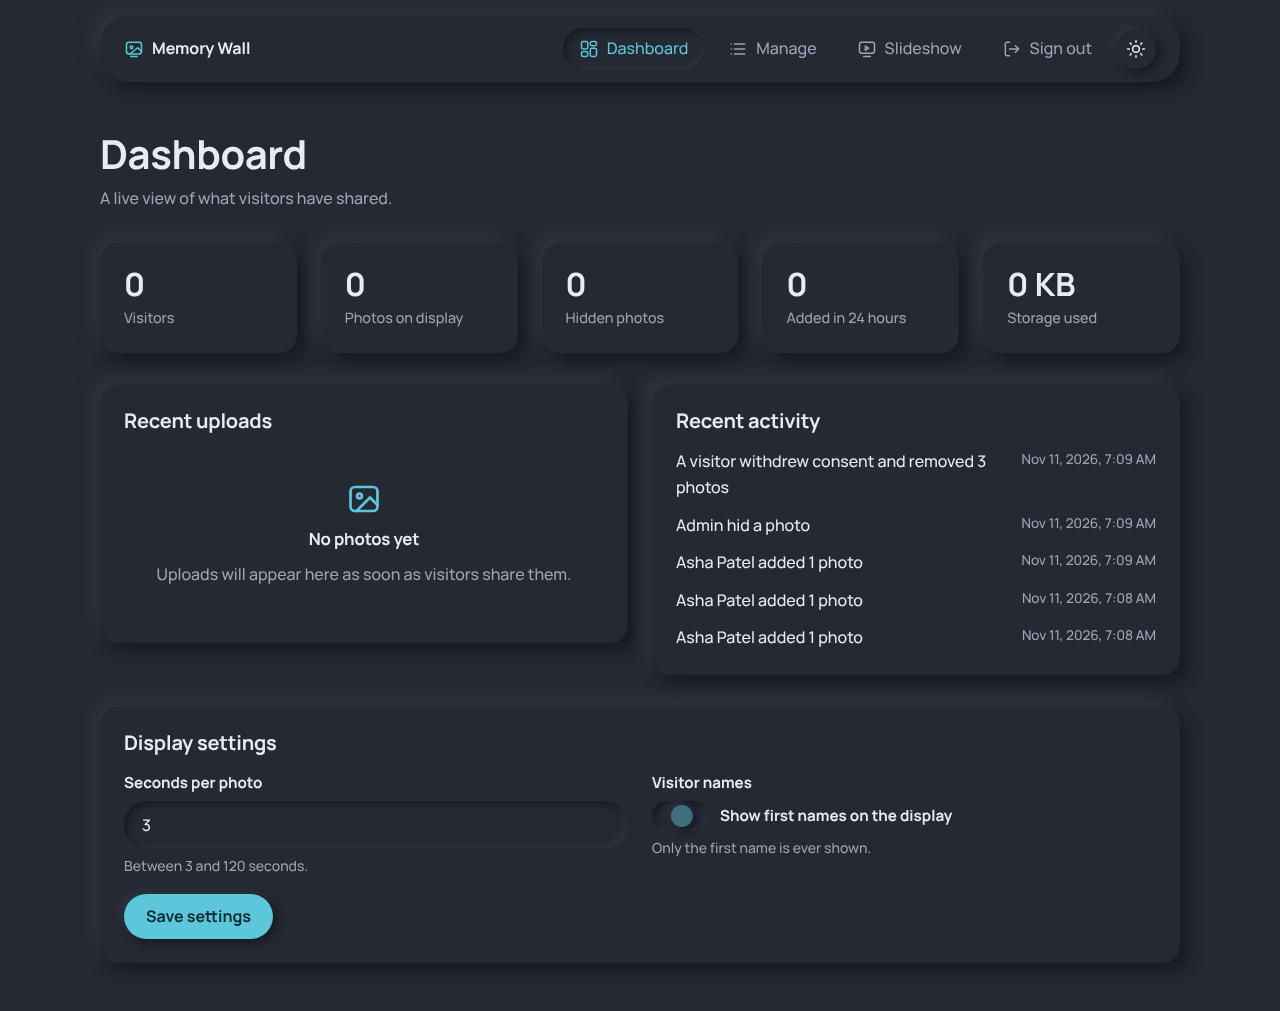
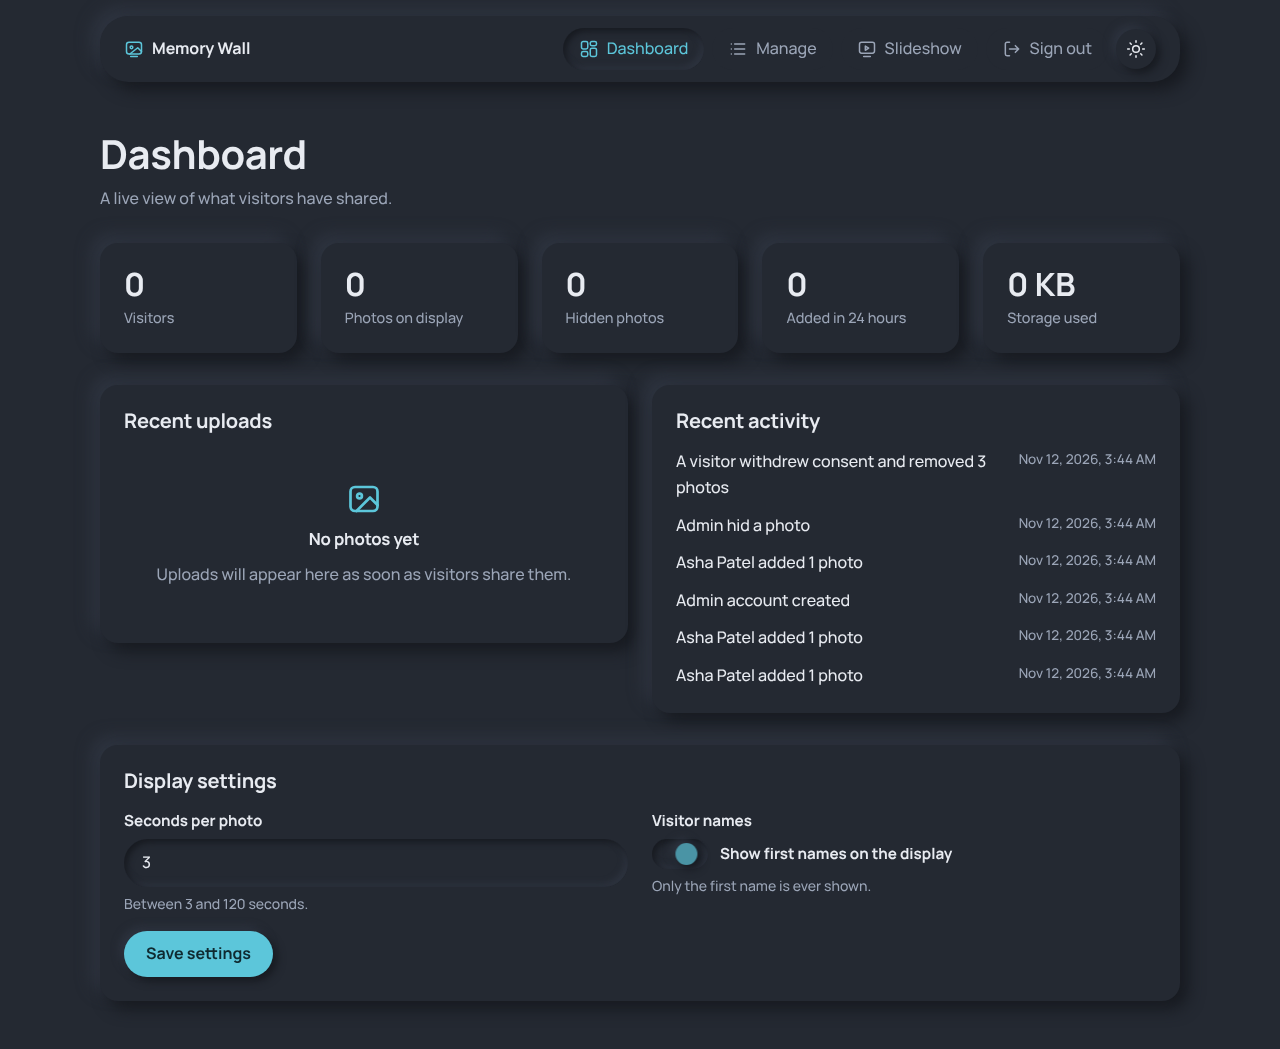
feat: localhost-only setup check page; test database helper; browser e2e test ported to PHP app

diff --git a/tests/e2e/e2e.js b/tests/e2e/e2e.js
@@ -1,31 +1,25 @@
-// Browser end-to-end test (optional): drives real Chromium through the whole app.
-// Setup:  npm i --no-save playwright && npx playwright install chromium
-// Run:    node tests/e2e.js          (screenshots are written to docs/screenshots)
+// Browser end-to-end test (OPTIONAL, development only): drives real Chromium through the PHP application.
+// The application itself does not need Node.js - only this test tool does.
+//   cd tests/e2e && npm install && npx playwright install chromium
+//   (Apache + MySQL running, TEST database configured)   node e2e.js
+// Environment: BASE_URL (default http://localhost/visitor-slideshow/public/); MW_DB_NAME must end with _test.
 const { chromium } = require(process.env.PLAYWRIGHT_PATH || 'playwright');
-const fs = require('node:fs'), os = require('node:os'), path = require('node:path');
-const sharp = require('sharp');
-const { createApp } = require('../server/app');
+const fs = require('node:fs'), path = require('node:path');
+const { execFileSync } = require('node:child_process');
 
 const results = [];
 const check = (name, ok, extra = '') => { results.push({ name, ok }); console.log(`${ok ? 'PASS' : 'FAIL'}  ${name}${ok ? '' : '  ' + extra}`); };
-const shots = path.join(__dirname, '..', 'docs', 'screenshots'); fs.mkdirSync(shots, { recursive: true });
+const shots = path.join(__dirname, '..', '..', 'docs', 'screenshots'); fs.mkdirSync(shots, { recursive: true });
 const sleep = (ms) => new Promise((r) => setTimeout(r, ms));
+const base = (process.env.BASE_URL || 'http://localhost/visitor-slideshow/public/').replace(/\/?$/, '/');
+const ADMIN_PASSWORD = 'e2e-password-123';
+const fixtures = path.join(__dirname, '..', 'fixtures');
+const files = [0, 1, 2].map((i) => path.join(fixtures, `pic${i}.jpg`));
+const fake = path.join(fixtures, 'notes.jpg');
 
 (async () => {
-  const dir = fs.mkdtempSync(path.join(os.tmpdir(), 'e2e-'));
-  const app = createApp({ dataDir: dir, adminPassword: 'e2e-password', sessionSecret: 'y'.repeat(64), limits: { upload: 1000, lookup: 1000, login: 1000 } });
-  const server = await new Promise((r) => { const s = app.listen(0, '127.0.0.1', () => r(s)); });
-  const base = `http://127.0.0.1:${server.address().port}`;
-
-  // test images
-  const files = [];
-  for (let i = 0; i < 3; i++) {
-    const f = path.join(dir, `pic${i}.jpg`);
-    await sharp({ create: { width: 1600, height: 900, channels: 3, background: ['#2a6f97', '#bc4749', '#6a994e'][i] } })
-      .composite([{ input: Buffer.from(`<svg width="1600" height="900"><text x="80" y="500" font-size="300" fill="#fff">Photo ${i + 1}</text></svg>`) }]).jpeg().toFile(f);
-    files.push(f);
-  }
-  const fake = path.join(dir, 'notes.jpg'); fs.writeFileSync(fake, 'this is not really an image');
+  // start from an empty TEST database and empty uploads folder
+  execFileSync('php', [path.join(__dirname, '..', 'reset.php')], { stdio: 'inherit', env: process.env });
 
   const browser = await chromium.launch();
   const problems = [];
@@ -41,13 +35,14 @@ const sleep = (ms) => new Promise((r) => setTimeout(r, ms));
 
   try {
     // ---- 1. empty slideshow ----
-    await tv.goto(base + '/slideshow');
+    await tv.goto(base + 'slideshow.php');
     await tv.waitForSelector('#empty:not([hidden])');
     check('Slideshow shows a friendly empty state', (await tv.locator('#empty').isVisible()) && (await tv.textContent('#empty')).includes('Waiting for the first photo'));
     await tv.screenshot({ path: path.join(shots, 'slideshow-empty.png') });
 
     // ---- 2. upload page + validation messages ----
-    await page.goto(base + '/');
+    await page.goto(base);
+    check('Root address opens the visitor page', page.url().endsWith('/public/') && (await page.textContent('h1')).includes('Share your photos'), page.url());
     await page.screenshot({ path: path.join(shots, 'upload-light.png') });
     check('Submit disabled with no photos', await page.locator('#submit').isDisabled());
     await page.setInputFiles('#file', [files[0], files[1], fake]);
@@ -63,54 +58,69 @@ const sleep = (ms) => new Promise((r) => setTimeout(r, ms));
     // ---- 3. real upload (2 valid + 1 fake) ----
     await page.check('#consent');
     await page.click('#submit');
-    await page.waitForURL('**/status');
+    await page.waitForURL('**/status.php');
     const code = (await page.textContent('#code')).trim();
     check('Visitor code is issued after first upload', /^[A-Z2-9]{5}-[A-Z2-9]{5}$/.test(code), code);
     check('Success page reports 2 photos', (await page.textContent('#h')).includes('2 photos'));
     check('Invalid file is reported on the status page', (await page.textContent('#plist')).includes('notes.jpg'));
     await page.screenshot({ path: path.join(shots, 'status.png') });
 
-    // ---- 4. slideshow updated live, without reload ----
-    await tv.waitForSelector('.layer.on', { timeout: 8000 });
+    // ---- 4. slideshow updated live (polling), without reload ----
+    await tv.waitForSelector('.layer.on', { timeout: 10000 });
     check('New photo appears on the open slideshow without a refresh (empty message gone, image visible)', (await tv.locator('#empty').isVisible()) === false && (await tv.locator('.layer.on').isVisible()));
     await tv.screenshot({ path: path.join(shots, 'slideshow.png') });
 
-    // ---- 5. progression + live add while playing ----
+    // ---- 5. first-run admin setup, then settings + progression ----
     const adminPage = await ctx.newPage(); watch(adminPage, 'admin');
-    await adminPage.goto(base + '/admin');
-    check('Admin page redirects to sign-in when logged out', adminPage.url().endsWith('/admin/login'));
-    await adminPage.fill('#pw', 'wrong'); await adminPage.click('button[type=submit]');
+    await adminPage.goto(base + 'admin/index.php');
+    check('First visit to /admin goes to the password setup page', adminPage.url().endsWith('admin/setup.php'), adminPage.url());
+    await adminPage.screenshot({ path: path.join(shots, 'admin-setup.png') });
+    await adminPage.fill('#pw', ADMIN_PASSWORD); await adminPage.fill('#pw2', 'something-else-1'); await adminPage.click('button[type=submit]');
     await adminPage.waitForSelector('#error:not([hidden])');
-    check('Wrong admin password shows an error', true);
-    await adminPage.fill('#pw', 'e2e-password'); await adminPage.click('button[type=submit]');
-    await adminPage.waitForURL('**/admin');
+    check('Setup rejects mismatching passwords', (await adminPage.textContent('#error')).includes('match'));
+    await adminPage.fill('#pw2', ADMIN_PASSWORD); await adminPage.click('button[type=submit]');
+    await adminPage.waitForURL('**/admin/index.php');
+    check('Setup creates the admin and opens the dashboard', await adminPage.locator('h1').first().textContent() === 'Dashboard');
     await adminPage.fill('#duration', '3'); await adminPage.check('#shownames'); await adminPage.click('#settings button[type=submit]');
     await adminPage.waitForSelector('.toast--success');
     const srcs = new Set();
-    for (let i = 0; i < 9; i++) { srcs.add(await tv.evaluate(() => document.querySelector('.layer.on')?.getAttribute('src'))); await sleep(1000); }
+    for (let i = 0; i < 10; i++) { srcs.add(await tv.evaluate(() => document.querySelector('.layer.on')?.getAttribute('src'))); await sleep(1000); }
     check('Slideshow advances automatically to the next photo (3 s setting)', srcs.size >= 2, [...srcs].join());
     check('Visitor first name is shown only when the admin enables it', (await tv.textContent('#caption')).trim() === 'Shared by Asha');
+
+    // ---- 5b. sign-in for a fresh browser (no cookies) ----
+    const ctxLogin = await browser.newContext(); const lp = await ctxLogin.newPage(); watch(lp, 'login');
+    await lp.goto(base + 'admin/index.php');
+    check('Admin page redirects to sign-in when logged out', lp.url().endsWith('admin/login.php'), lp.url());
+    await lp.fill('#pw', 'wrong-password'); await lp.click('button[type=submit]');
+    await lp.waitForSelector('#error:not([hidden])');
+    check('Wrong admin password shows an error', (await lp.textContent('#error')).includes('Incorrect'));
+    await lp.fill('#pw', ADMIN_PASSWORD); await lp.click('button[type=submit]');
+    await lp.waitForURL('**/admin/index.php');
+    check('Correct admin password opens the dashboard', true);
+    await lp.click('#signout'); await lp.waitForURL('**/admin/login.php');
+    check('Sign out returns to the sign-in page', true);
+    await ctxLogin.close();
 
     // ---- 6. returning visitor in a fresh browser context (no saved data) ----
     const ctx2 = await browser.newContext({ viewport: { width: 1280, height: 800 } });
     const p2 = await ctx2.newPage(); watch(p2, 'returning');
-    await p2.goto(base + '/my-photos');
+    await p2.goto(base + 'my-photos.php');
     await p2.fill('#code', code.toLowerCase());
     await p2.click('button[type=submit]');
     await p2.waitForSelector('.photo-grid');
     check('Returning visitor sees their previous photos', (await p2.locator('.photo-card').count()) === 2);
     await p2.screenshot({ path: path.join(shots, 'my-photos.png') });
-    await p2.goto(base + '/');
+    await p2.goto(base);
     await p2.click('#mode-return'); await p2.fill('#code', code);
     await p2.setInputFiles('#file', [files[2]]); await p2.check('#consent'); await p2.click('#submit');
-    await p2.waitForURL('**/status');
+    await p2.waitForURL('**/status.php');
     check('Returning visitor can add another photo with the same code', (await p2.textContent('#h')).includes('on the wall'));
     check('Returning visitor does not get a new code', await p2.locator('#codecard').isHidden());
-    await p2.goto(base + '/my-photos');
+    await p2.goto(base + 'my-photos.php');
     await p2.waitForSelector('.photo-grid');
     check('Previous and new photos are together (3)', (await p2.locator('.photo-card').count()) === 3);
-    // saved code recognised on same device
-    await p2.goto(base + '/');
+    await p2.goto(base);
     await p2.waitForFunction(() => document.getElementById('welcome').textContent.includes('Welcome back'));
     check('Same device recognises the returning visitor automatically', true);
 
@@ -120,7 +130,7 @@ const sleep = (ms) => new Promise((r) => setTimeout(r, ms));
     const nums = await adminPage.locator('.stat .num').allTextContents();
     check('Dashboard shows real counts (1 visitor, 3 photos)', nums[0] === '1' && nums[1] === '3', nums.join());
     await adminPage.screenshot({ path: path.join(shots, 'admin-dashboard.png'), fullPage: true });
-    await adminPage.goto(base + '/admin/manage');
+    await adminPage.goto(base + 'admin/manage.php');
     await adminPage.waitForSelector('.photo-card');
     await adminPage.fill('#q', 'nobody');
     await adminPage.waitForSelector('.empty');
@@ -141,48 +151,49 @@ const sleep = (ms) => new Promise((r) => setTimeout(r, ms));
     check('Visitors table lists the visitor', (await adminPage.textContent('tbody')).includes('Asha Patel'));
 
     // ---- 8. withdraw consent -> slideshow empties live ----
-    await p2.goto(base + '/my-photos');
+    await p2.goto(base + 'my-photos.php');
     await p2.waitForSelector('#withdraw');
     await p2.click('#withdraw'); await p2.waitForSelector('dialog[open]');
     await p2.getByRole('button', { name: 'Delete everything' }).click();
-    await tv.waitForSelector('#empty:not([hidden])', { timeout: 8000 });
-    check('Withdrawing consent removes photos from the open slideshow', true);
-    check('Withdrawn visitor code no longer works', await (async () => { const r = await fetch(base + '/api/visitor/lookup', { method: 'POST', headers: { 'Content-Type': 'application/json' }, body: JSON.stringify({ code }) }); return r.status === 404; })());
+    await tv.waitForSelector('#empty:not([hidden])', { timeout: 10000 });
+    check('Withdrawing consent removes photos from the open slideshow', await tv.locator('#empty').isVisible());
+    const gone = await fetch(base + 'api/visitor-lookup.php', { method: 'POST', headers: { 'Content-Type': 'application/json' }, body: JSON.stringify({ code }) });
+    check('Withdrawn visitor code no longer works', gone.status === 404);
 
     // ---- 9. theme ----
-    await page.goto(base + '/');
+    await page.goto(base);
     await page.click('#theme-toggle');
     check('Theme toggle switches to dark', (await page.evaluate(() => document.documentElement.dataset.theme)) === 'dark');
     await page.reload();
     check('Theme preference is remembered after reload', (await page.evaluate(() => document.documentElement.dataset.theme)) === 'dark');
     await page.screenshot({ path: path.join(shots, 'upload-dark.png') });
     await adminPage.evaluate(() => localStorage.setItem('theme', 'dark'));
-    await adminPage.goto(base + '/admin'); await adminPage.waitForSelector('.stat .num');
+    await adminPage.goto(base + 'admin/index.php'); await adminPage.waitForSelector('.stat .num');
     await adminPage.screenshot({ path: path.join(shots, 'admin-dark.png'), fullPage: true });
 
     // ---- 10. mobile layout ----
     const mctx = await browser.newContext({ viewport: { width: 375, height: 760 }, isMobile: true, hasTouch: true });
     const m = await mctx.newPage(); watch(m, 'mobile');
     await mctx.addCookies(await ctx.cookies());
-    for (const p of ['/', '/my-photos', '/status', '/admin', '/admin/manage', '/admin/login', '/slideshow']) {
-      await m.goto(base + p); await sleep(400);
+    for (const p of ['index.php', 'my-photos.php', 'status.php', 'admin/index.php', 'admin/manage.php', 'slideshow.php']) {
+      await m.goto(base + p); await sleep(500);
       const overflow = await m.evaluate(() => document.documentElement.scrollWidth - document.documentElement.clientWidth);
       check(`Mobile (375px) has no sideways scrolling: ${p}`, overflow <= 0, `overflow ${overflow}px`);
     }
-    await m.goto(base + '/');
+    await m.goto(base);
     await m.click('#menu-toggle');
     check('Mobile menu opens', await m.locator('#nav-links a').first().isVisible());
     await m.screenshot({ path: path.join(shots, 'mobile-menu.png') });
 
     // ---- 11. no console errors / broken assets ----
-    await page.goto(base + '/does-not-exist');
+    await page.goto(base + 'does-not-exist');
     check('Unknown pages show a friendly 404', (await page.textContent('h1')).includes('not found'));
     const real = problems.filter((p) => !p.includes('404') && !p.includes('Failed to load resource'));
     check('No console errors, page errors or failed requests', real.length === 0, '\n  ' + real.join('\n  '));
   } catch (e) {
     check('Test run completed without an unexpected error', false, e.stack.split('\n').slice(0, 4).join(' | '));
   }
-  await browser.close(); app.locals.close(); server.closeAllConnections?.(); server.close(); fs.rmSync(dir, { recursive: true, force: true });
+  await browser.close();
   const failed = results.filter((r) => !r.ok).length;
   console.log(`\n${results.length - failed}/${results.length} browser checks passed`);
   process.exit(failed ? 1 : 0);

diff --git a/public/check.php b/public/check.php
@@ -1,0 +1,47 @@
+<?php
+/**
+ * Setup check: shows what is working and what is missing (PHP version, extensions, database,
+ * upload folder). Only reachable from the same computer (localhost), never from the network.
+ */
+require __DIR__ . '/../includes/bootstrap.php';
+if (!in_array($_SERVER['REMOTE_ADDR'] ?? '', ['127.0.0.1', '::1'], true)) { http_response_code(403); exit('The setup check can only be opened on the computer that runs the server.'); }
+
+$checks = [];
+$add = function (string $label, bool $ok, string $detail) use (&$checks) { $checks[] = [$label, $ok, $detail]; };
+
+$add('PHP 8.0 or newer', PHP_VERSION_ID >= 80000, 'You have PHP ' . PHP_VERSION);
+foreach (['gd' => 'GD (image processing)', 'pdo_mysql' => 'PDO MySQL (database)', 'mbstring' => 'mbstring (text handling)'] as $ext => $label) {
+    $add($label, extension_loaded($ext), extension_loaded($ext) ? 'enabled' : "Open php.ini (XAMPP Control Panel > Apache > Config) and remove the ; before extension=$ext, then restart Apache.");
+}
+if (function_exists('gd_info')) {
+    $gd = gd_info();
+    $add('GD can read/write JPG, PNG and WebP', !empty($gd['JPEG Support']) && !empty($gd['PNG Support']) && !empty($gd['WebP Support']),
+        'JPEG: ' . (!empty($gd['JPEG Support']) ? 'yes' : 'no') . ', PNG: ' . (!empty($gd['PNG Support']) ? 'yes' : 'no') . ', WebP: ' . (!empty($gd['WebP Support']) ? 'yes' : 'no'));
+}
+try {
+    $pdo = db();
+    $add('Database connection', true, 'Connected to "' . cfg('db_name') . '" on ' . cfg('db_host'));
+    $have = $pdo->query('SHOW TABLES')->fetchAll(PDO::FETCH_COLUMN);
+    $need = ['visitors', 'photos', 'settings', 'activity', 'admin_users', 'rate_limit_hits'];
+    $missing = array_diff($need, $have);
+    $add('Database tables imported', !$missing, $missing ? 'Missing: ' . implode(', ', $missing) . '. Import database.sql in phpMyAdmin.' : 'all ' . count($need) . ' tables found');
+} catch (Throwable $e) {
+    $add('Database connection', false, 'Cannot connect. Is MySQL started in XAMPP? Did you import database.sql? Are the settings in config/config.local.php right?');
+}
+$dir = (string) cfg('upload_dir');
+$add('Upload folder is writable', is_dir($dir) && is_writable($dir), is_dir($dir) && is_writable($dir) ? 'ok' : 'On macOS/Linux run: chmod -R 777 uploads');
+$add('Upload limits in PHP', true, 'upload_max_filesize = ' . ini_get('upload_max_filesize') . ', post_max_size = ' . ini_get('post_max_size') . ' (the app allows ' . (int) cfg('max_file_mb') . ' MB per photo)');
+
+page_head('Setup check', ['noindex' => true]);
+?>
+  <main class="page page--narrow">
+    <header class="page-header"><h1>Setup check</h1><p>Everything should say OK before you invite visitors.</p></header>
+    <section class="card"><ul class="list">
+<?php foreach ($checks as [$label, $ok, $detail]) : ?>
+      <li><span><strong><?= h($label) ?></strong><br><span class="hint"><?= h($detail) ?></span></span>
+          <span class="badge <?= $ok ? 'badge--ok' : 'badge--bad' ?>"><?= $ok ? 'OK' : 'Fix needed' ?></span></li>
+<?php endforeach; ?>
+    </ul></section>
+    <div class="row"><a class="btn btn--primary" href="index.php">Open the visitor page</a><a class="btn" href="admin/index.php">Admin</a></div>
+  </main>
+<?php page_foot('notfound.js'); ?>

diff --git a/tests/create-test-db.php b/tests/create-test-db.php
@@ -1,0 +1,16 @@
+<?php
+/**
+ * Creates the TEST database from database.sql:   php tests/create-test-db.php
+ * The test database name comes from config (db_name) and must end with "_test".
+ * Put   'db_name' => 'visitor_slideshow_test'   in config/config.local.php of the copy you test.
+ */
+$cfg = require dirname(__DIR__) . '/config/config.php';
+$name = $cfg['db_name'];
+if (substr($name, -5) !== '_test') { fwrite(STDERR, "db_name is '$name'; it must end with _test (see config/config.local.php).\n"); exit(2); }
+$pdo = new PDO(sprintf('mysql:host=%s;port=%d;charset=utf8mb4', $cfg['db_host'], $cfg['db_port']), $cfg['db_user'], $cfg['db_pass'], [PDO::ATTR_ERRMODE => PDO::ERRMODE_EXCEPTION]);
+$pdo->exec("CREATE DATABASE IF NOT EXISTS `$name` CHARACTER SET utf8mb4 COLLATE utf8mb4_unicode_ci");
+$pdo->exec("USE `$name`");
+$sql = file_get_contents(dirname(__DIR__) . '/database.sql');
+$sql = preg_replace('/^CREATE DATABASE.*?;\s*USE `[^`]+`;/ms', '', $sql, 1);   // keep only the tables
+$pdo->exec($sql);
+echo "Test database '$name' is ready.\n";

diff --git a/tests/make-fixtures.php b/tests/make-fixtures.php
@@ -1,0 +1,12 @@
+<?php
+// Creates the picture files used by the browser test:  php tests/make-fixtures.php
+$dir = __DIR__ . '/fixtures'; @mkdir($dir);
+$colors = [[42, 111, 151], [188, 71, 73], [106, 153, 78]];
+foreach ($colors as $i => [$r, $g, $b]) {
+    $im = imagecreatetruecolor(1600, 900);
+    imagefill($im, 0, 0, imagecolorallocate($im, $r, $g, $b));
+    imagestring($im, 5, 40, 40, 'Photo ' . ($i + 1), imagecolorallocate($im, 255, 255, 255));
+    imagejpeg($im, "$dir/pic$i.jpg", 85);
+}
+file_put_contents("$dir/notes.jpg", 'this is not really an image');   // a fake photo to test rejection
+echo "fixtures written to tests/fixtures\n";
